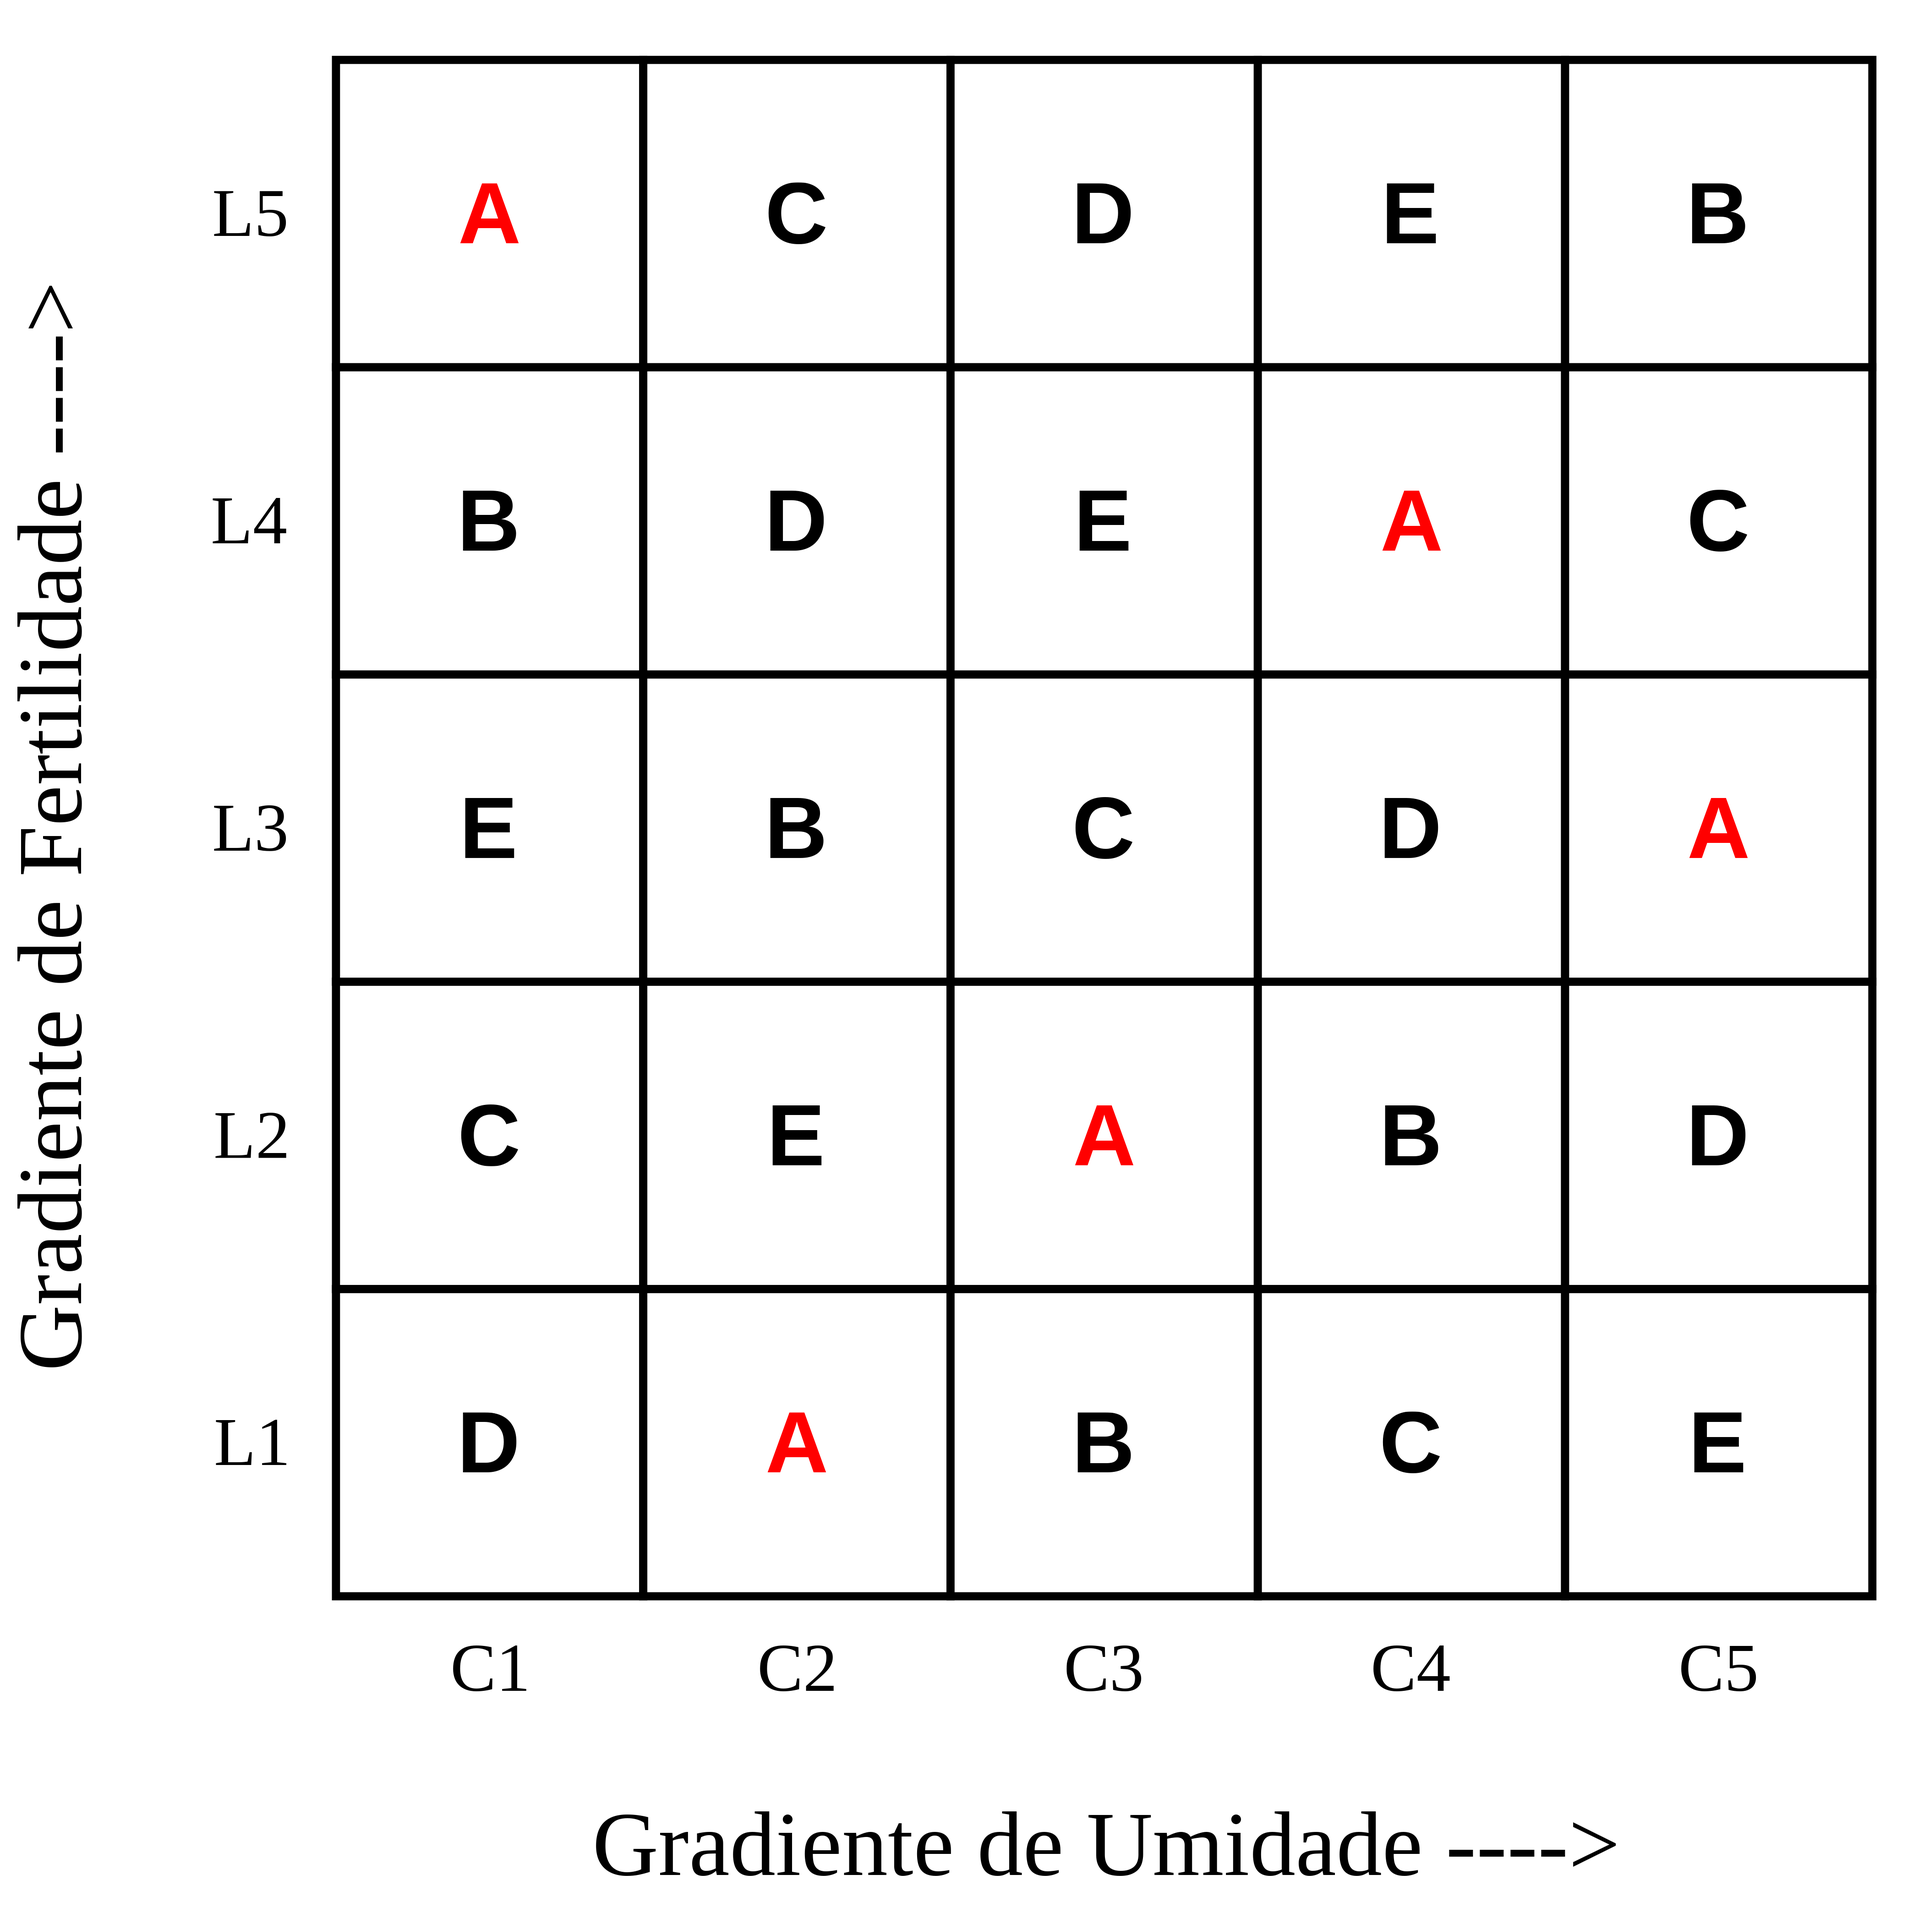
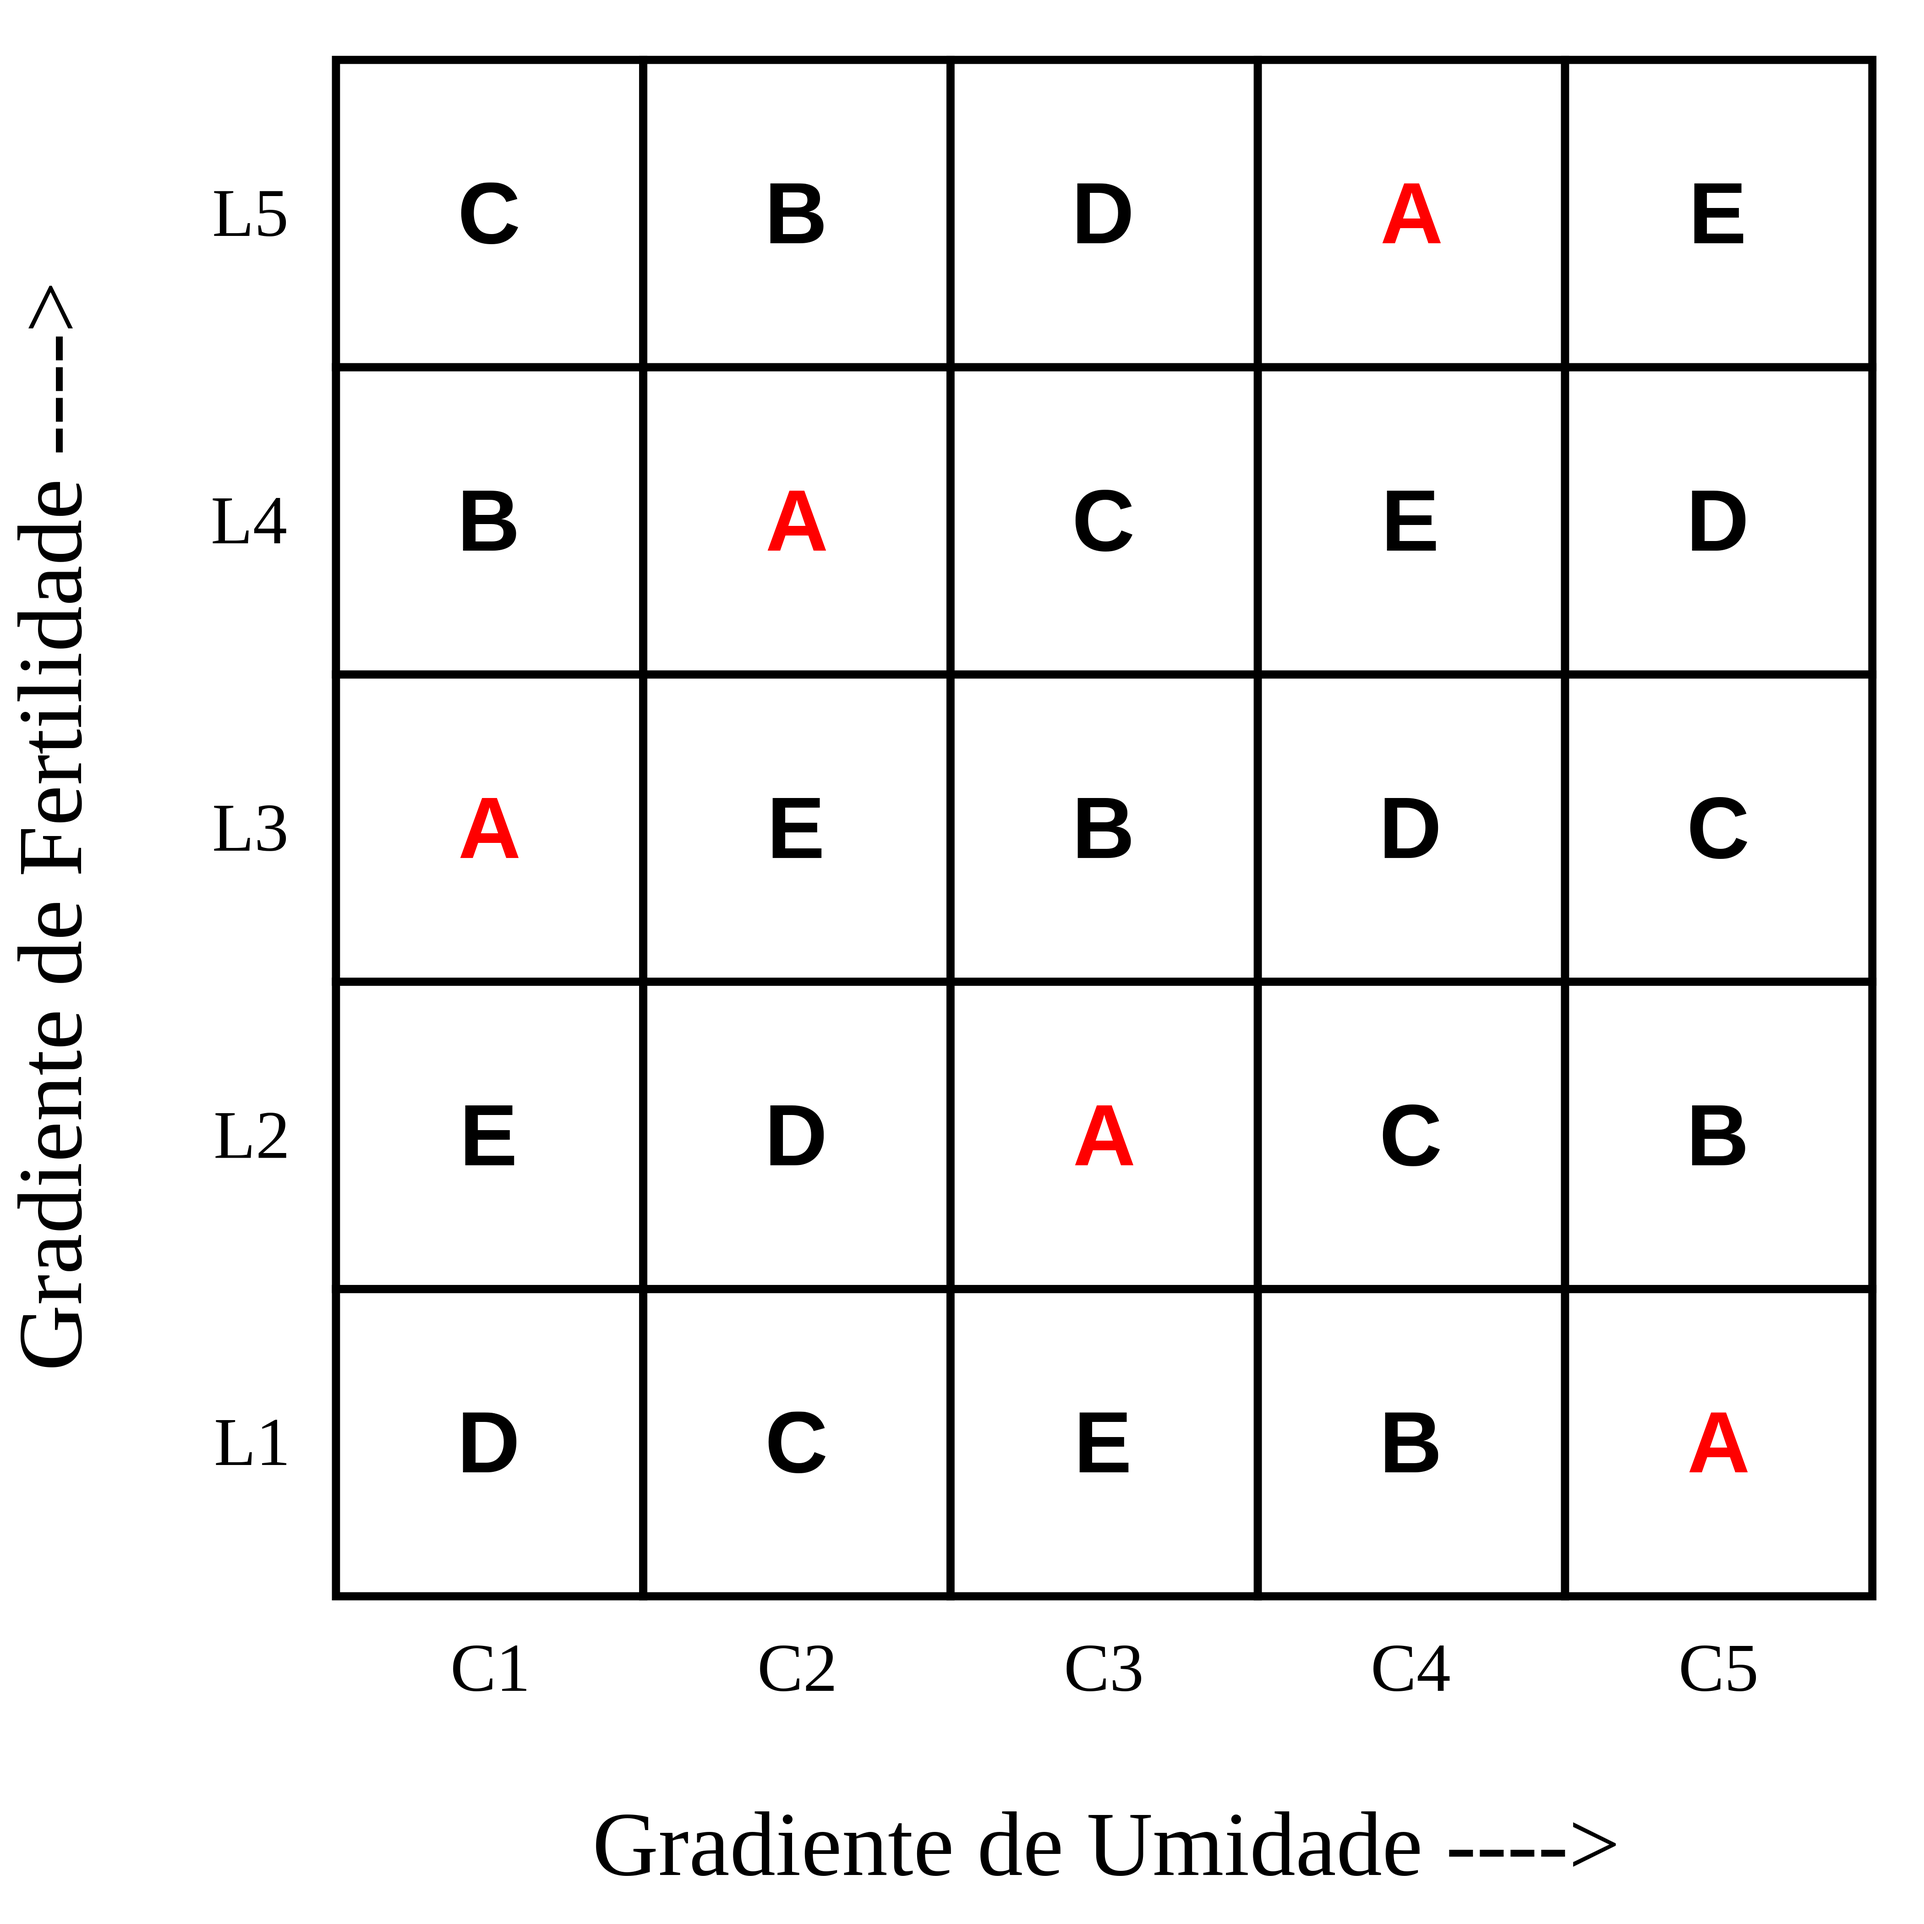
Update DQL class

diff --git a/Slides/Aula6-DQL.html b/Slides/Aula6-DQL.html
@@ -7,7 +7,7 @@
     <script src="Aula6-DQL_files/header-attrs-2.7/header-attrs.js"></script>
     <link href="Aula6-DQL_files/remark-css-0.0.1/default.css" rel="stylesheet" />
     <link href="Aula6-DQL_files/xaringanExtra-extra-styles-0.2.6/xaringanExtra-extra-styles.css" rel="stylesheet" />
-    <script type="application/json" id="xaringanExtra-editable-docid">{"id":"eb67c8abd11d4c6692ba090a44b6386c","expires":1}</script>
+    <script type="application/json" id="xaringanExtra-editable-docid">{"id":"xb4dd9d015b74ff4afe06bcb8ad44697","expires":1}</script>
     <script src="Aula6-DQL_files/himalaya-1.1.0/himalaya.js"></script>
     <script src="Aula6-DQL_files/js-cookie-3.0.0/js.cookie.js"></script>
     <link href="Aula6-DQL_files/editable-0.2.6/editable.css" rel="stylesheet" />
@@ -160,15 +160,15 @@ Ao final desta aula espera-se que o discente seja capaz de...
 
 [1 - Delineamento experimental - Conceito](#de)
 
-[2 - Principais delineamentos experimentais](#pde)
+[2 - Fontes de variações adicionais](#fv)
 
-[3 - Fontes de variações adicionais](#fv)
+[3 - Controle Local](#cl)
 
-[4 - Controle Local](#cl)
+[4 - Princípios básicos](#pb)
 
-[5 - Princípios básicos](#pb)
+[5 - Croqui de experimento em DQL](#croqui)
 
-[6 - Croqui de experimento em DQL - Exemplo](#croqui)
+[6 - Casualização de tratamentos em DQL](#cas)
 
 [7 - Principais características](#carac)
 
@@ -472,7 +472,7 @@ Croqui de um experimento em delineamento de quadrado latino 5x5 com bordadura de
 ]
 
 ---
-
+name: cas
 ## Delineamento em Quadrado Latino
 &lt;br&gt;
 
@@ -487,15 +487,36 @@ Então, seja um experimento em DQL com cinco tratamentos (A, B, C, D e E), ter-s
 - 5 linhas (5 blocos no sentido horizontal), cada bloco com 5 parcelas experimentais;
 - 5 colunas (5 blocos no sentido vertical), cada bloco com 5 parcelas experimentais.
 
+---
 
+## Delineamento em Quadrado Latino
+&lt;br&gt;
 
+### .font80[Casualização dos tratamentos às unidades experimentais (Nogueira, 2007)]
 
+**Vamos retornar ao croqui do experimento em DQL (5x5) apresentado anteriormente!**
+
+.pull-left-4[
+&lt;img src="Aula6-DQL_files/figure-html/unnamed-chunk-8-1.png" width="75%" style="display: block; margin: auto;" /&gt;
+]
+
+--
+
+.pull-right-4[
+.font80[
+- A aletorização dos tratamentos às parcelas experimentais foi realizada conforme estratégia apresentada por Nogueira, 2007.
+&lt;br&gt;&lt;br&gt;
+
+.center[**Pergunta**]
+- Como os tratamentos (A, B, C, D e E) foram aleatorizados às parcelas experimentais? 
+- **Lembre-se**: Cada tratamento deve aparecer uma única vez na linha e na coluna.
+]
+]
 
 ---
 
 
-
-&lt;!-- --- --&gt;
+---
 
 &lt;!-- ## Delineamento em Quadrado Latino --&gt;
 
